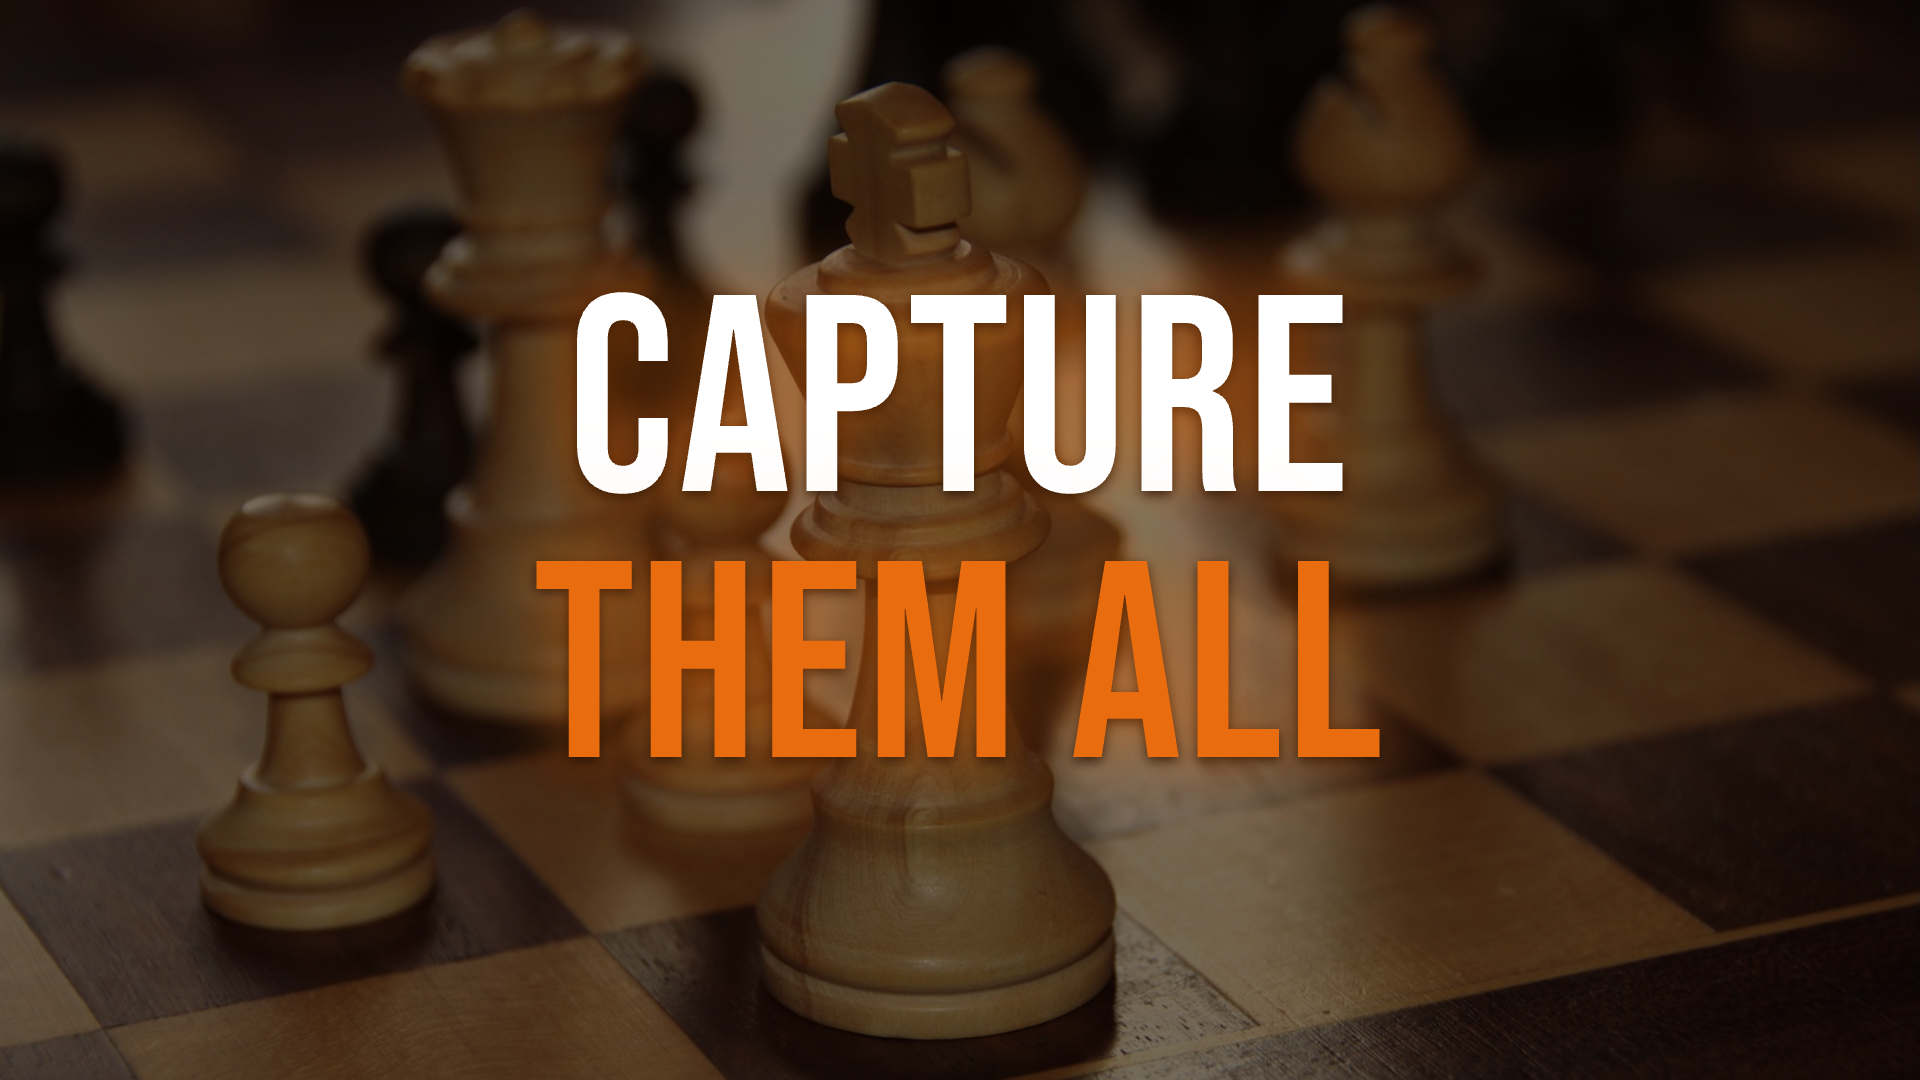
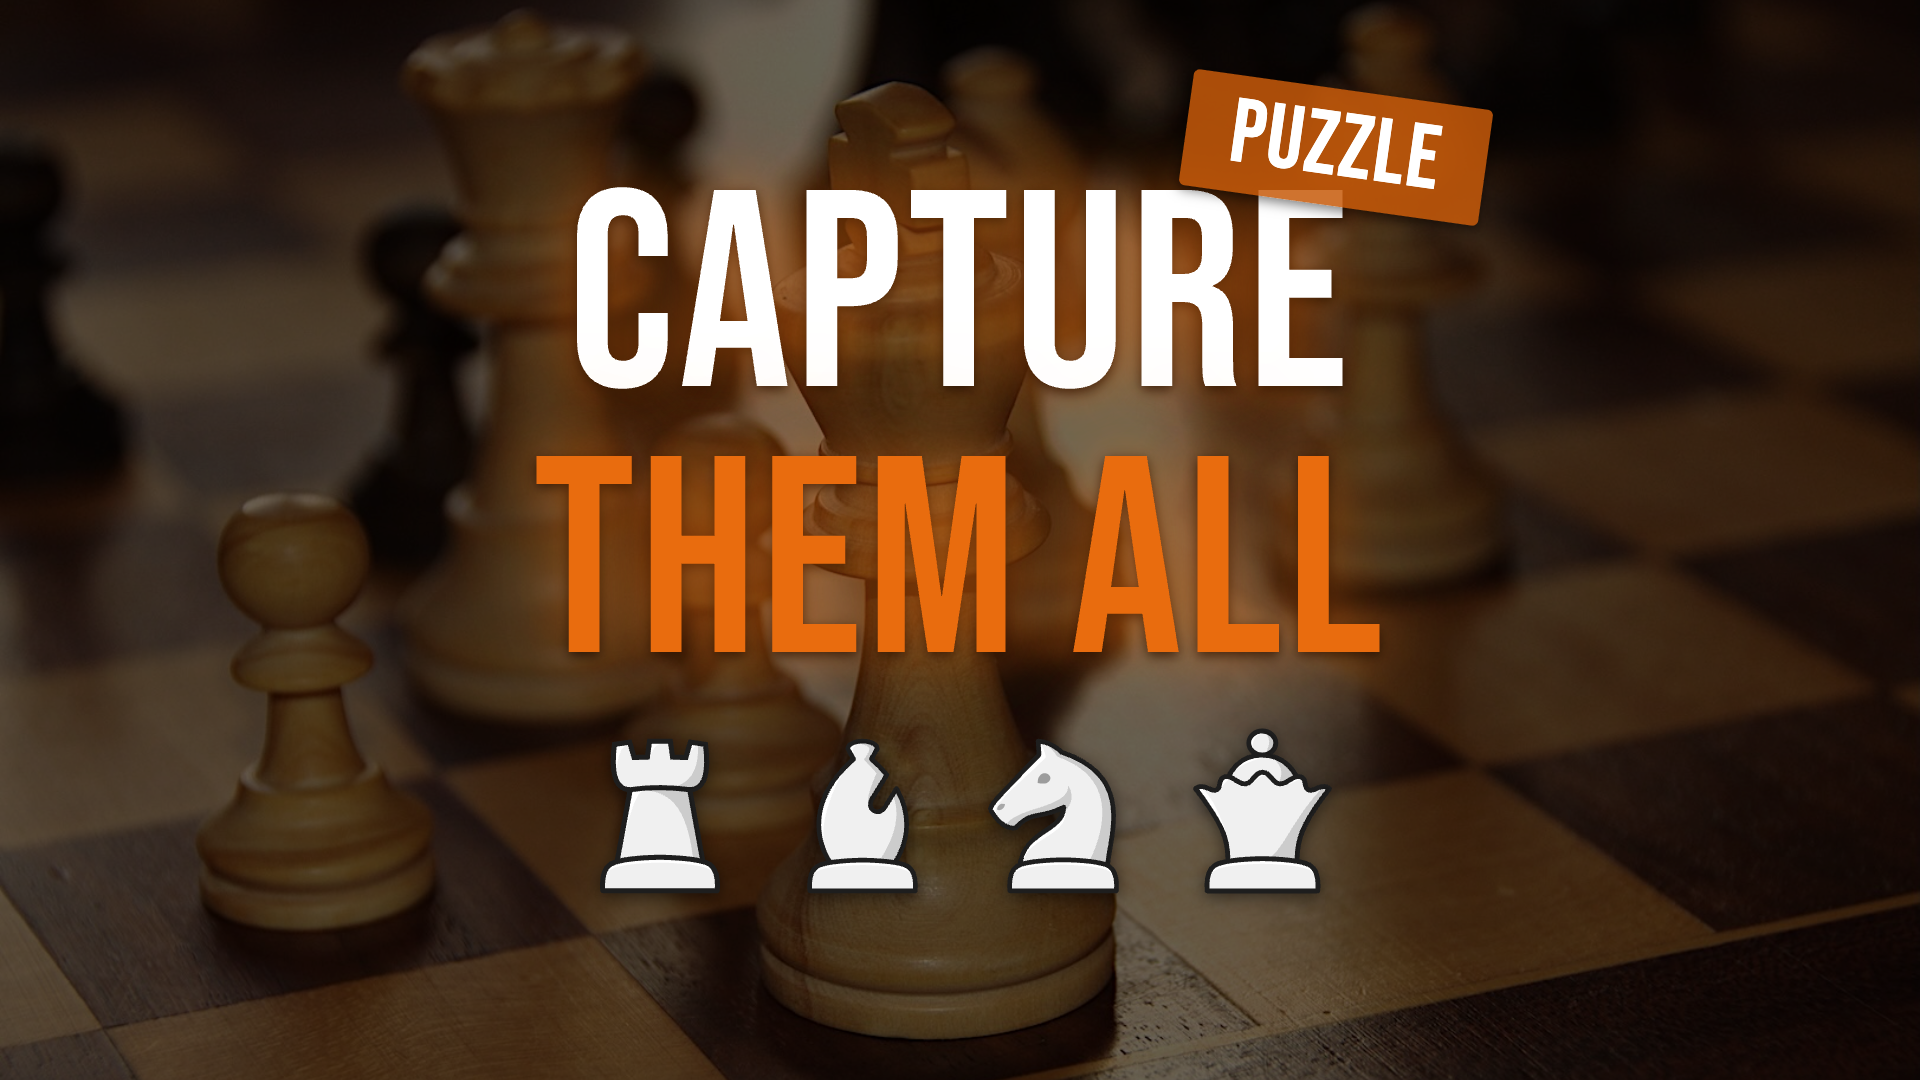
Add "Puzzle" badge to cover titles, update styles and positioning for landscape, portrait, and square covers, and regenerate cover images.

Changed region(s): [[0.2812, 0.0611, 0.7812, 0.8556]]

diff --git a/tools/cover-images.html b/tools/cover-images.html
@@ -52,8 +52,29 @@
                 0 4px 12px rgba(0,0,0,0.9);
         }
 
+        .title {
+            position: relative;
+        }
+
         .title span {
             color: #e96c0e;
+        }
+
+        .title .badge-puzzle {
+            position: absolute;
+            top: var(--badge-top);
+            right: var(--badge-right);
+            background: rgba(199, 90, 10, 0.85);
+            color: #fff;
+            font-family: 'Bebas Neue', sans-serif;
+            font-size: var(--badge-size);
+            padding: 0.15em 0.5em;
+            border-radius: 6px;
+            letter-spacing: 2px;
+            line-height: 1;
+            transform: rotate(8deg);
+            box-shadow: 0 4px 12px rgba(0,0,0,0.5);
+            text-shadow: none;
         }
 
         .pieces-row {
@@ -70,13 +91,13 @@
         }
 
         /* Landscape */
-        .landscape { width: 1920px; height: 1080px; --title-size: 280px; --piece-size: 200px; --piece-gap: 0px; --piece-margin-top: 10px; }
+        .landscape { width: 1920px; height: 1080px; --title-size: 280px; --piece-size: 200px; --piece-gap: 0px; --piece-margin-top: 10px; --badge-size: 90px; --badge-top: -80px; --badge-right: -100px; }
 
         /* Portrait */
-        .portrait { width: 800px; height: 1200px; --title-size: 180px; --piece-size: 140px; --piece-gap: 0px; --piece-margin-top: 10px; }
+        .portrait { width: 800px; height: 1200px; --title-size: 180px; --piece-size: 140px; --piece-gap: 0px; --piece-margin-top: 10px; --badge-size: 60px; --badge-top: -55px; --badge-right: -80px; }
 
         /* Square */
-        .square { width: 800px; height: 800px; --title-size: 170px; --piece-size: 130px; --piece-gap: 0px; --piece-margin-top: 10px; }
+        .square { width: 800px; height: 800px; --title-size: 170px; --piece-size: 130px; --piece-gap: 0px; --piece-margin-top: 10px; --badge-size: 52px; --badge-top: -48px; --badge-right: -55px; }
     </style>
 </head>
 <body>
@@ -85,7 +106,7 @@
 <div class="cover landscape" id="landscape">
     <div class="cover-bg"></div>
     <div class="cover-content">
-        <div class="title">CAPTURE<br><span>THEM ALL</span></div><div class="pieces-row"><svg viewBox="0 0 40 40"><use href="../node_modules/cm-chessboard/assets/pieces/staunty.svg#wr"/></svg><svg viewBox="0 0 40 40"><use href="../node_modules/cm-chessboard/assets/pieces/staunty.svg#wb"/></svg><svg viewBox="0 0 40 40"><use href="../node_modules/cm-chessboard/assets/pieces/staunty.svg#wn"/></svg><svg viewBox="0 0 40 40"><use href="../node_modules/cm-chessboard/assets/pieces/staunty.svg#wq"/></svg></div>
+        <div class="title">CAPTURE<span class="badge-puzzle">Puzzle</span><br><span>THEM ALL</span></div><div class="pieces-row"><svg viewBox="0 0 40 40"><use href="../node_modules/cm-chessboard/assets/pieces/staunty.svg#wr"/></svg><svg viewBox="0 0 40 40"><use href="../node_modules/cm-chessboard/assets/pieces/staunty.svg#wb"/></svg><svg viewBox="0 0 40 40"><use href="../node_modules/cm-chessboard/assets/pieces/staunty.svg#wn"/></svg><svg viewBox="0 0 40 40"><use href="../node_modules/cm-chessboard/assets/pieces/staunty.svg#wq"/></svg></div>
     </div>
 </div>
 
@@ -93,7 +114,7 @@
 <div class="cover portrait" id="portrait">
     <div class="cover-bg"></div>
     <div class="cover-content">
-        <div class="title">CAPTURE<br><span>THEM ALL</span></div><div class="pieces-row"><svg viewBox="0 0 40 40"><use href="../node_modules/cm-chessboard/assets/pieces/staunty.svg#wr"/></svg><svg viewBox="0 0 40 40"><use href="../node_modules/cm-chessboard/assets/pieces/staunty.svg#wb"/></svg><svg viewBox="0 0 40 40"><use href="../node_modules/cm-chessboard/assets/pieces/staunty.svg#wn"/></svg><svg viewBox="0 0 40 40"><use href="../node_modules/cm-chessboard/assets/pieces/staunty.svg#wq"/></svg></div>
+        <div class="title">CAPTURE<span class="badge-puzzle">Puzzle</span><br><span>THEM ALL</span></div><div class="pieces-row"><svg viewBox="0 0 40 40"><use href="../node_modules/cm-chessboard/assets/pieces/staunty.svg#wr"/></svg><svg viewBox="0 0 40 40"><use href="../node_modules/cm-chessboard/assets/pieces/staunty.svg#wb"/></svg><svg viewBox="0 0 40 40"><use href="../node_modules/cm-chessboard/assets/pieces/staunty.svg#wn"/></svg><svg viewBox="0 0 40 40"><use href="../node_modules/cm-chessboard/assets/pieces/staunty.svg#wq"/></svg></div>
     </div>
 </div>
 
@@ -101,7 +122,7 @@
 <div class="cover square" id="square">
     <div class="cover-bg"></div>
     <div class="cover-content">
-        <div class="title">CAPTURE<br><span>THEM ALL</span></div><div class="pieces-row"><svg viewBox="0 0 40 40"><use href="../node_modules/cm-chessboard/assets/pieces/staunty.svg#wr"/></svg><svg viewBox="0 0 40 40"><use href="../node_modules/cm-chessboard/assets/pieces/staunty.svg#wb"/></svg><svg viewBox="0 0 40 40"><use href="../node_modules/cm-chessboard/assets/pieces/staunty.svg#wn"/></svg><svg viewBox="0 0 40 40"><use href="../node_modules/cm-chessboard/assets/pieces/staunty.svg#wq"/></svg></div>
+        <div class="title">CAPTURE<span class="badge-puzzle">Puzzle</span><br><span>THEM ALL</span></div><div class="pieces-row"><svg viewBox="0 0 40 40"><use href="../node_modules/cm-chessboard/assets/pieces/staunty.svg#wr"/></svg><svg viewBox="0 0 40 40"><use href="../node_modules/cm-chessboard/assets/pieces/staunty.svg#wb"/></svg><svg viewBox="0 0 40 40"><use href="../node_modules/cm-chessboard/assets/pieces/staunty.svg#wn"/></svg><svg viewBox="0 0 40 40"><use href="../node_modules/cm-chessboard/assets/pieces/staunty.svg#wq"/></svg></div>
     </div>
 </div>
 
